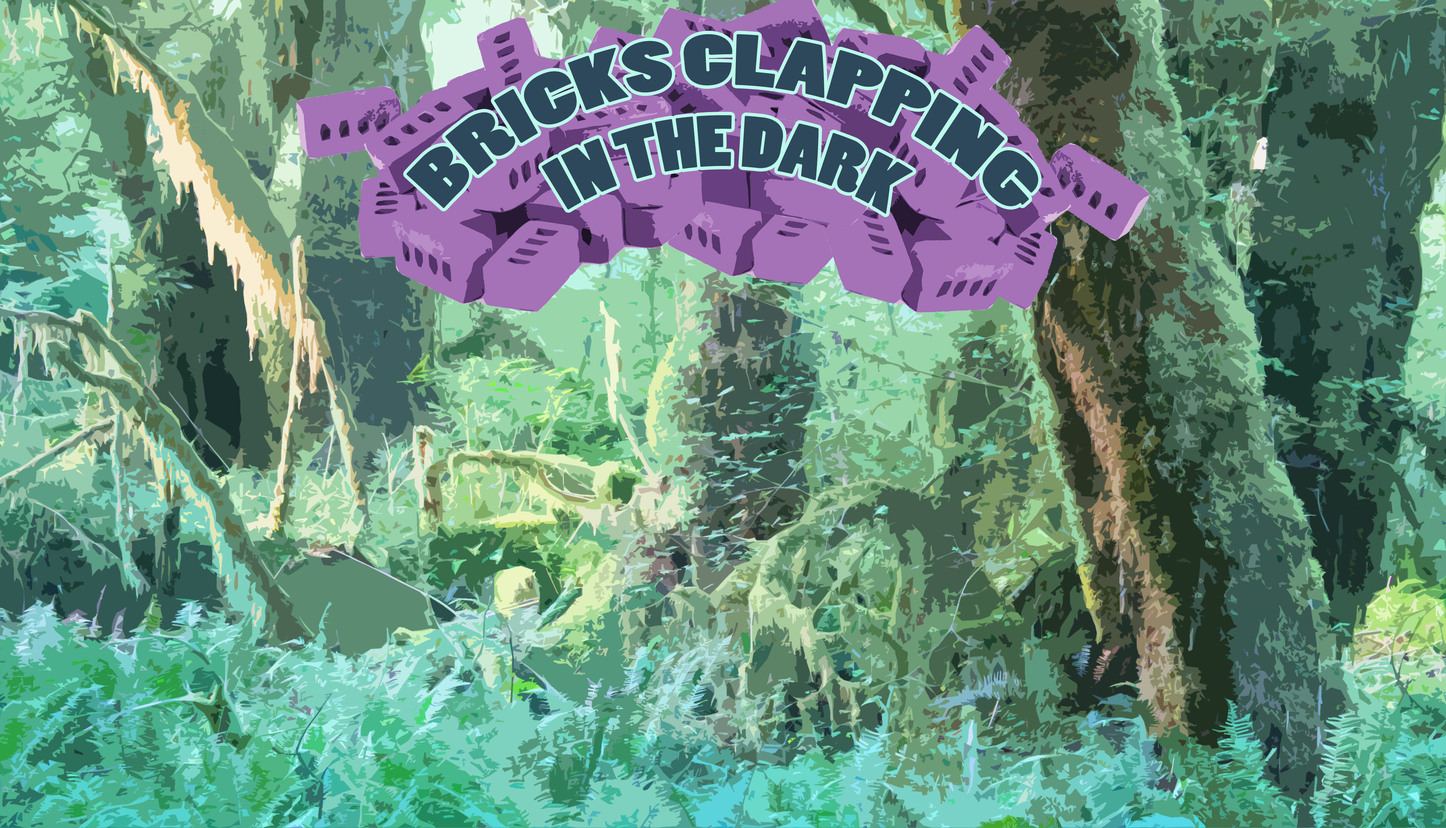
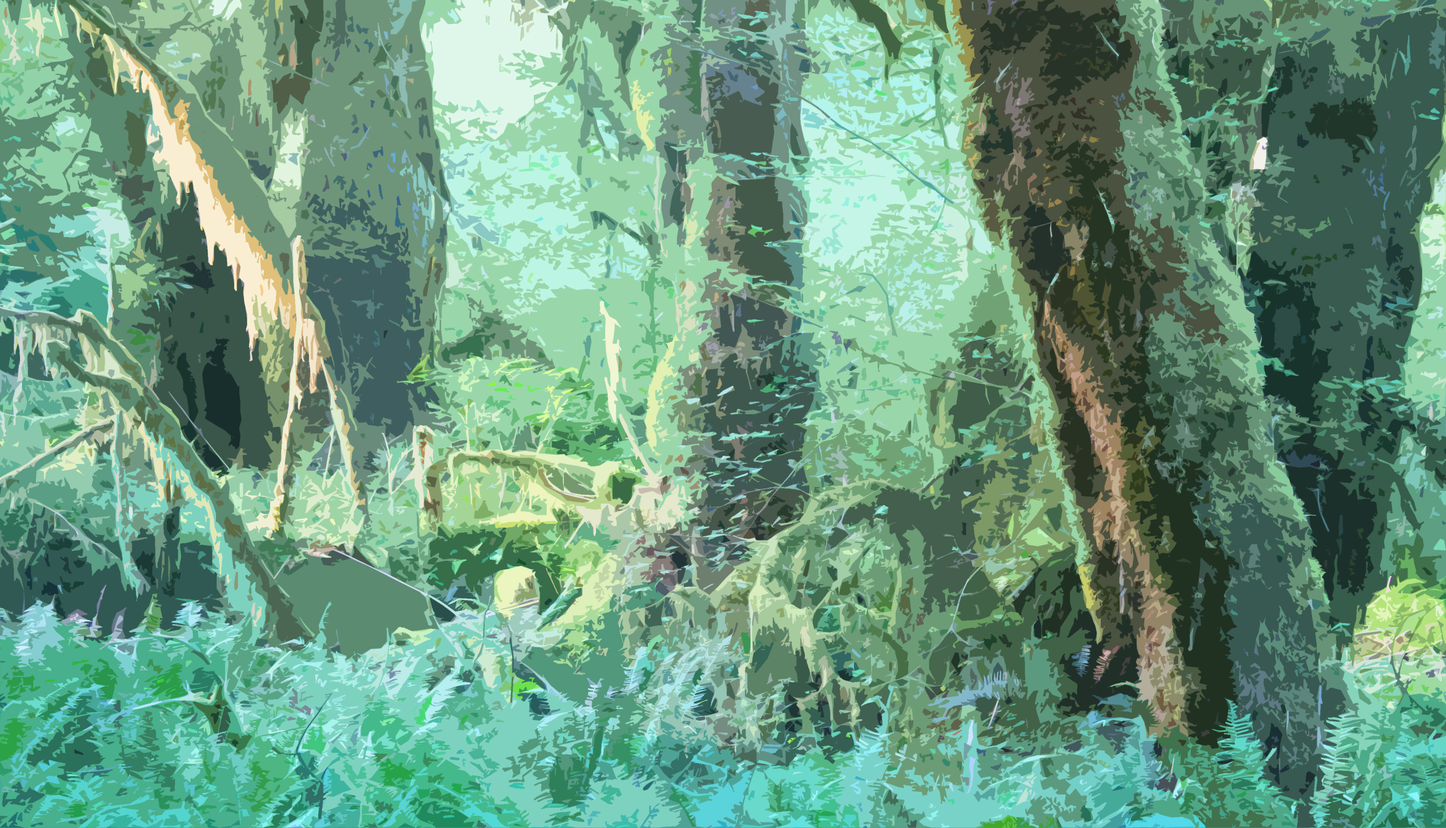
Fixing various bugs found in production
- Fixed mobile layout issues by setting viewport width
- Fixed header resize issues by splitting up background into two images
- Fixed issue where next/previous posts appeared on every page of
“related” section
- Added friendly album titles to image grid
- Fixed post titles and slugs to use friendly album titles instead

Changed region(s): [[0.1868, 0.0, 0.8095, 0.373]]

diff --git a/client/imports/app/views/detail-view/detail-view.component.ts b/client/imports/app/views/detail-view/detail-view.component.ts
@@ -38,6 +38,7 @@ export class DetailViewComponent implements OnInit, OnDestroy {
     comments: Observable<PostComment[]>;
     paramsSub: Subscription;
     artists: string[];
+    excludedPostIds: string[];
     notFound: boolean;
 
     constructor(
@@ -45,6 +46,22 @@ export class DetailViewComponent implements OnInit, OnDestroy {
         private titleService: Title,
         private postHelpersService: PostHelpersService
     ) {}
+
+    private setExcludedPostIds() {
+        this.excludedPostIds = [];
+
+        if (this.post) {
+            this.excludedPostIds.push(this.post._id);
+        }
+
+        if (this.previousPost) {
+            this.excludedPostIds.push(this.previousPost._id);
+        }
+
+        if (this.nextPost) {
+            this.excludedPostIds.push(this.nextPost._id);
+        }
+    }
 
     ngOnInit() {
         this.paramsSub = this.route.params
@@ -68,6 +85,7 @@ export class DetailViewComponent implements OnInit, OnDestroy {
                                     this.nextPost = Posts.findOne(
                                         { date: { $gt: this.post.date } },
                                         { sort: { date: 1} });
+                                    this.setExcludedPostIds();
                                 });
 
                             this.previousPostSub && this.previousPostSub.unsubscribe();
@@ -77,6 +95,7 @@ export class DetailViewComponent implements OnInit, OnDestroy {
                                     this.previousPost = Posts.findOne(
                                         { date: { $lt: this.post.date } },
                                         { sort: { date: -1} });
+                                    this.setExcludedPostIds();
                                 });
 
                             let postCommentFilter = new PostCommentFilter();
@@ -101,6 +120,8 @@ export class DetailViewComponent implements OnInit, OnDestroy {
                             this.titleService.setTitle(
                                 this.postHelpersService.getTitle(this.post)
                                 + ' | Bricks Clapping In The Dark');
+
+                            this.setExcludedPostIds();
                         }
                 });
             });

diff --git a/client/imports/app/services/post-helpers.service.ts b/client/imports/app/services/post-helpers.service.ts
@@ -3,24 +3,25 @@ import { Slug } from 'ng2-slugify';
 
 import { Post } from '../../../../both/models/post.model';
 import { Album } from '../../../../both/models/album.model';
+import { AlbumTitlePipe } from '../pipes/album-title.pipe';
 
 @Injectable()
 export class PostHelpersService {
     private slug: Slug = new Slug();
 
+    constructor(
+        private albumTitlePipe: AlbumTitlePipe
+    ) {}
+
     getTitle(post: Post): string {
         return post.albums.length === 1
-            ? post.albums[0].artists.length === 1
-                ? post.albums[0].artists[0] + ' - ' + post.albums[0].title
-                : post.albums[0].title
+            ? this.albumTitlePipe.transform(post.albums[0])
             : post.title;
     }
 
     getSlug(post: Post): string {
         let title: string = post.albums.length === 1
-            ? post.albums[0].artists.length === 1
-                ? post.albums[0].artists[0] + ' ' + post.albums[0].title
-                : post.albums[0].title
+            ? this.albumTitlePipe.transform(post.albums[0])
             : post.title;
 
         return this.slug.slugify(title);

diff --git a/client/imports/app/components/posts/post-list.component.ts b/client/imports/app/components/posts/post-list.component.ts
@@ -33,7 +33,7 @@ export class PostListComponent implements OnChanges, OnDestroy {
     @Output() pageChange: EventEmitter<number> = new EventEmitter<number>();
     @Input() autoPage: boolean = true;
 
-    @Input() excludedPostId?: string;
+    @Input() excludedPostIds?: string[];
     @Input() artists?: string[];
     @Input() label?: string;
     @Input() year?: number;
@@ -68,8 +68,8 @@ export class PostListComponent implements OnChanges, OnDestroy {
 
             // Construct the post filter
             const postFilter: PostFilter = new PostFilter();
-            if (this.excludedPostId) {
-                postFilter.excludedPostId = this.excludedPostId;
+            if (this.excludedPostIds && this.excludedPostIds.length) {
+                postFilter.excludedPostIds = this.excludedPostIds;
             }
             if (this.artists && this.artists.length) {
                 postFilter.artists = this.artists;

diff --git a/client/imports/app/pipes/album-title.pipe.ts b/client/imports/app/pipes/album-title.pipe.ts
@@ -1,0 +1,22 @@
+import { Pipe, PipeTransform } from '@angular/core';
+import { Album } from '../../../../both/models/album.model';
+
+@Pipe({
+    name: 'albumTitle'
+})
+export class AlbumTitlePipe implements PipeTransform {
+    transform(album: Album): string {
+        let artists: string = '';
+
+        if (album.artists.length > 4) {
+            artists = 'Various Artists';
+        } else if (album.artists.length === 1) {
+            artists = album.artists[0];
+        } else {
+            artists = album.artists.slice(0, album.artists.length - 1).join(', ')
+                + ' & ' + album.artists[album.artists.length - 1];
+        }
+
+        return artists + ' - ' + album.title;
+    }
+}

diff --git a/both/filters/post.filter.ts b/both/filters/post.filter.ts
@@ -1,6 +1,6 @@
 export class PostFilter {
     slug?: string;
-    excludedPostId?: string;
+    excludedPostIds?: string[];
     artists?: string[];
     label?: string;
     year?: number;
@@ -18,9 +18,9 @@ export class PostFilter {
             };
         }
 
-        if (this.excludedPostId) {
+        if (this.excludedPostIds && this.excludedPostIds.length) {
             query = {
-                $and: [ query, { _id: { $ne: this.excludedPostId } }]
+                $and: [ query, { _id: { $nin: this.excludedPostIds } }]
             };
         }
 

diff --git a/client/imports/app/views/detail-view/detail-view.component.html b/client/imports/app/views/detail-view/detail-view.component.html
@@ -29,9 +29,9 @@
             [clearOnSubmit]='true'></comment-detail>
     </div>
     <div class='list-title'>Related</div>
-    <post-list *ngIf='artists'
+    <post-list *ngIf='artists && excludedPostIds'
         [pageSize]='4'
         [artists]='artists'
-        [excludedPostId]='post._id'></post-list>
+        [excludedPostIds]='excludedPostIds'></post-list>
 </div>
 <div *ngIf='notFound' class='list-title'>Not Found</div>

diff --git a/client/main.html b/client/main.html
@@ -4,7 +4,7 @@
     <link href="https://fonts.googleapis.com/icon?family=Material+Icons" rel="stylesheet">
     <link rel="icon" type="image/png" sizes="32x32" href="/favicon-32x32.png">
     <link rel="icon" type="image/png" sizes="16x16" href="/favicon-16x16.png">
-    <meta name="viewport" content="width=device-width, initial-scale=1">
+    <meta name="viewport" content="width=1080">
 </head>
 
 <body>

diff --git a/client/imports/app/app.component.scss b/client/imports/app/app.component.scss
@@ -1,6 +1,12 @@
 @import 'variables.scss';
 
 .header {
+    background-image: url('/header.png');
+    background-repeat: no-repeat;
+    background-attachment: fixed;
+    background-position: center -10px;
+    background-size: 840px;
+
     width: $app-width + 2 * $page-padding;
     height: 45px;
     padding-top: 165px;

diff --git a/client/imports/app/pipes/index.ts b/client/imports/app/pipes/index.ts
@@ -1,7 +1,9 @@
+import { AlbumTitlePipe } from './album-title.pipe';
 import { BlurbPipe } from './blurb.pipe';
 import { ReversePipe } from './reverse.pipe';
 
 export const PIPES_DECLARATIONS = [
+    AlbumTitlePipe,
     BlurbPipe,
     ReversePipe
 ];

diff --git a/client/imports/app/components/posts/image-grid.component.html b/client/imports/app/components/posts/image-grid.component.html
@@ -8,5 +8,6 @@
             "clickable": albums.length > 1
         }'
         [style.width]='(100 / rowSize) + "%"'
-        (click)='selectAlbum(album)' />
+        (click)='selectAlbum(album)'
+        title='{{ album | albumTitle }}' />
 </div>

diff --git a/client/imports/app/app.module.ts b/client/imports/app/app.module.ts
@@ -29,6 +29,7 @@ import { SERVICES_PROVIDERS } from './services';
     ],
     providers: [
         Title,
+        ...PIPES_DECLARATIONS,
         ...SERVICES_PROVIDERS
     ],
     bootstrap: [
